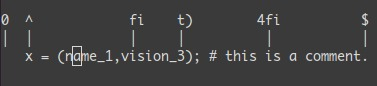
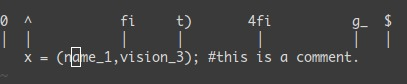
updated website

diff --git a/Scratch/en/blog/Learn-Vim-Progressively/index.html b/Scratch/en/blog/Learn-Vim-Progressively/index.html
@@ -327,7 +327,8 @@ Some of these features were the reason I started to use vim.</p>
   <ul>
     <li><code>0</code> → go to column 0</li>
     <li><code>^</code> → go to first character on the line</li>
-    <li><code>$</code> → go to the last character on the line</li>
+    <li><code>$</code> → go to the last column</li>
+    <li><code>g_</code> → go to the last character on the line</li>
     <li><code>fa</code> → go to next occurrence of the letter <code>a</code> on the line. <code>,</code> (resp. <code>;</code>) will seek for the next (resp. previous) occurrence.</li>
     <li><code>t,</code> → go just before the character <code>,</code>.</li>
     <li><code>3fa</code> → search the 3<sup>rd</sup> occurrence of <code>a</code> on this line.</li>
@@ -377,7 +378,7 @@ Typically: <code>0&lt;C-v&gt;&lt;C-d&gt;I-- [ESC]</code></p>
 
 <p><img alt="Rectangular blocks" src="/Scratch/img/blog/Learn-Vim-Progressively/rectangular-blocks.gif" /></p>
 
-<p>Not on windows you might have to use <code>&lt;C-q&gt;</code> instead of <code>&lt;C-v&gt;</code> if your clipboard is not empty.</p>
+<p>Note on windows you might have to use <code>&lt;C-q&gt;</code> instead of <code>&lt;C-v&gt;</code> if your clipboard is not empty.</p>
 
 <h3 id="completion-c-n-and-c-p">Completion: <code>&lt;C-n&gt;</code> and <code>&lt;C-p&gt;</code>.</h3>
 
@@ -560,7 +561,7 @@ $(document).ready(function() {
                 </div>
                 <div id="lastmod">
                     Created: 08/25/2011
-                    Modified: 08/31/2011 
+                    Modified: 09/08/2011 
                 </div>
                 <div>
                     Entirely done with

diff --git a/Scratch/fr/blog/Learn-Vim-Progressively/index.html b/Scratch/fr/blog/Learn-Vim-Progressively/index.html
@@ -333,7 +333,8 @@ Celles que je n&rsquo;ai retrouvé que dans vim (ou presque).</p>
   <ul>
     <li><code>0</code> → aller à la colonne 0,</li>
     <li><code>^</code> → aller au premier caractère de la ligne</li>
-    <li><code>$</code> → aller au dernier caractère de la ligne</li>
+    <li><code>$</code> → aller à la dernière colonne de la ligne</li>
+    <li><code>g_</code> → aller au dernier caractère de la ligne</li>
     <li><code>fa</code> → vous amène à la prochaine occurrence de a sur la ligne courante. <code>,</code> (resp. <code>;</code>) recherche l&rsquo;occurrence suivante (resp. précédente).</li>
     <li><code>t,</code> → vous amène juste avant le <code>,</code>.</li>
     <li><code>3fa</code> → recherche la 3ième occurrence de <code>a</code>.</li>
@@ -567,7 +568,7 @@ $(document).ready(function() {
                 </div>
                 <div id="lastmod">
                     Écrit le : 25/08/2011
-                    modifié le : 31/08/2011 
+                    modifié le : 08/09/2011 
                 </div>
                 <div>
                     Site entièrement réalisé avec

diff --git a/index.html b/index.html
@@ -188,7 +188,7 @@
                     <a rel="license" href="http://creativecommons.org/licenses/by-sa/3.0/">Copyright ©, Yann Esposito</a>
                 </div>
                 <div id="lastmod">
-                    Modified: 09/02/2011 
+                    Modified: 09/08/2011 
                 </div>
                 <div>
                     Entirely done with
